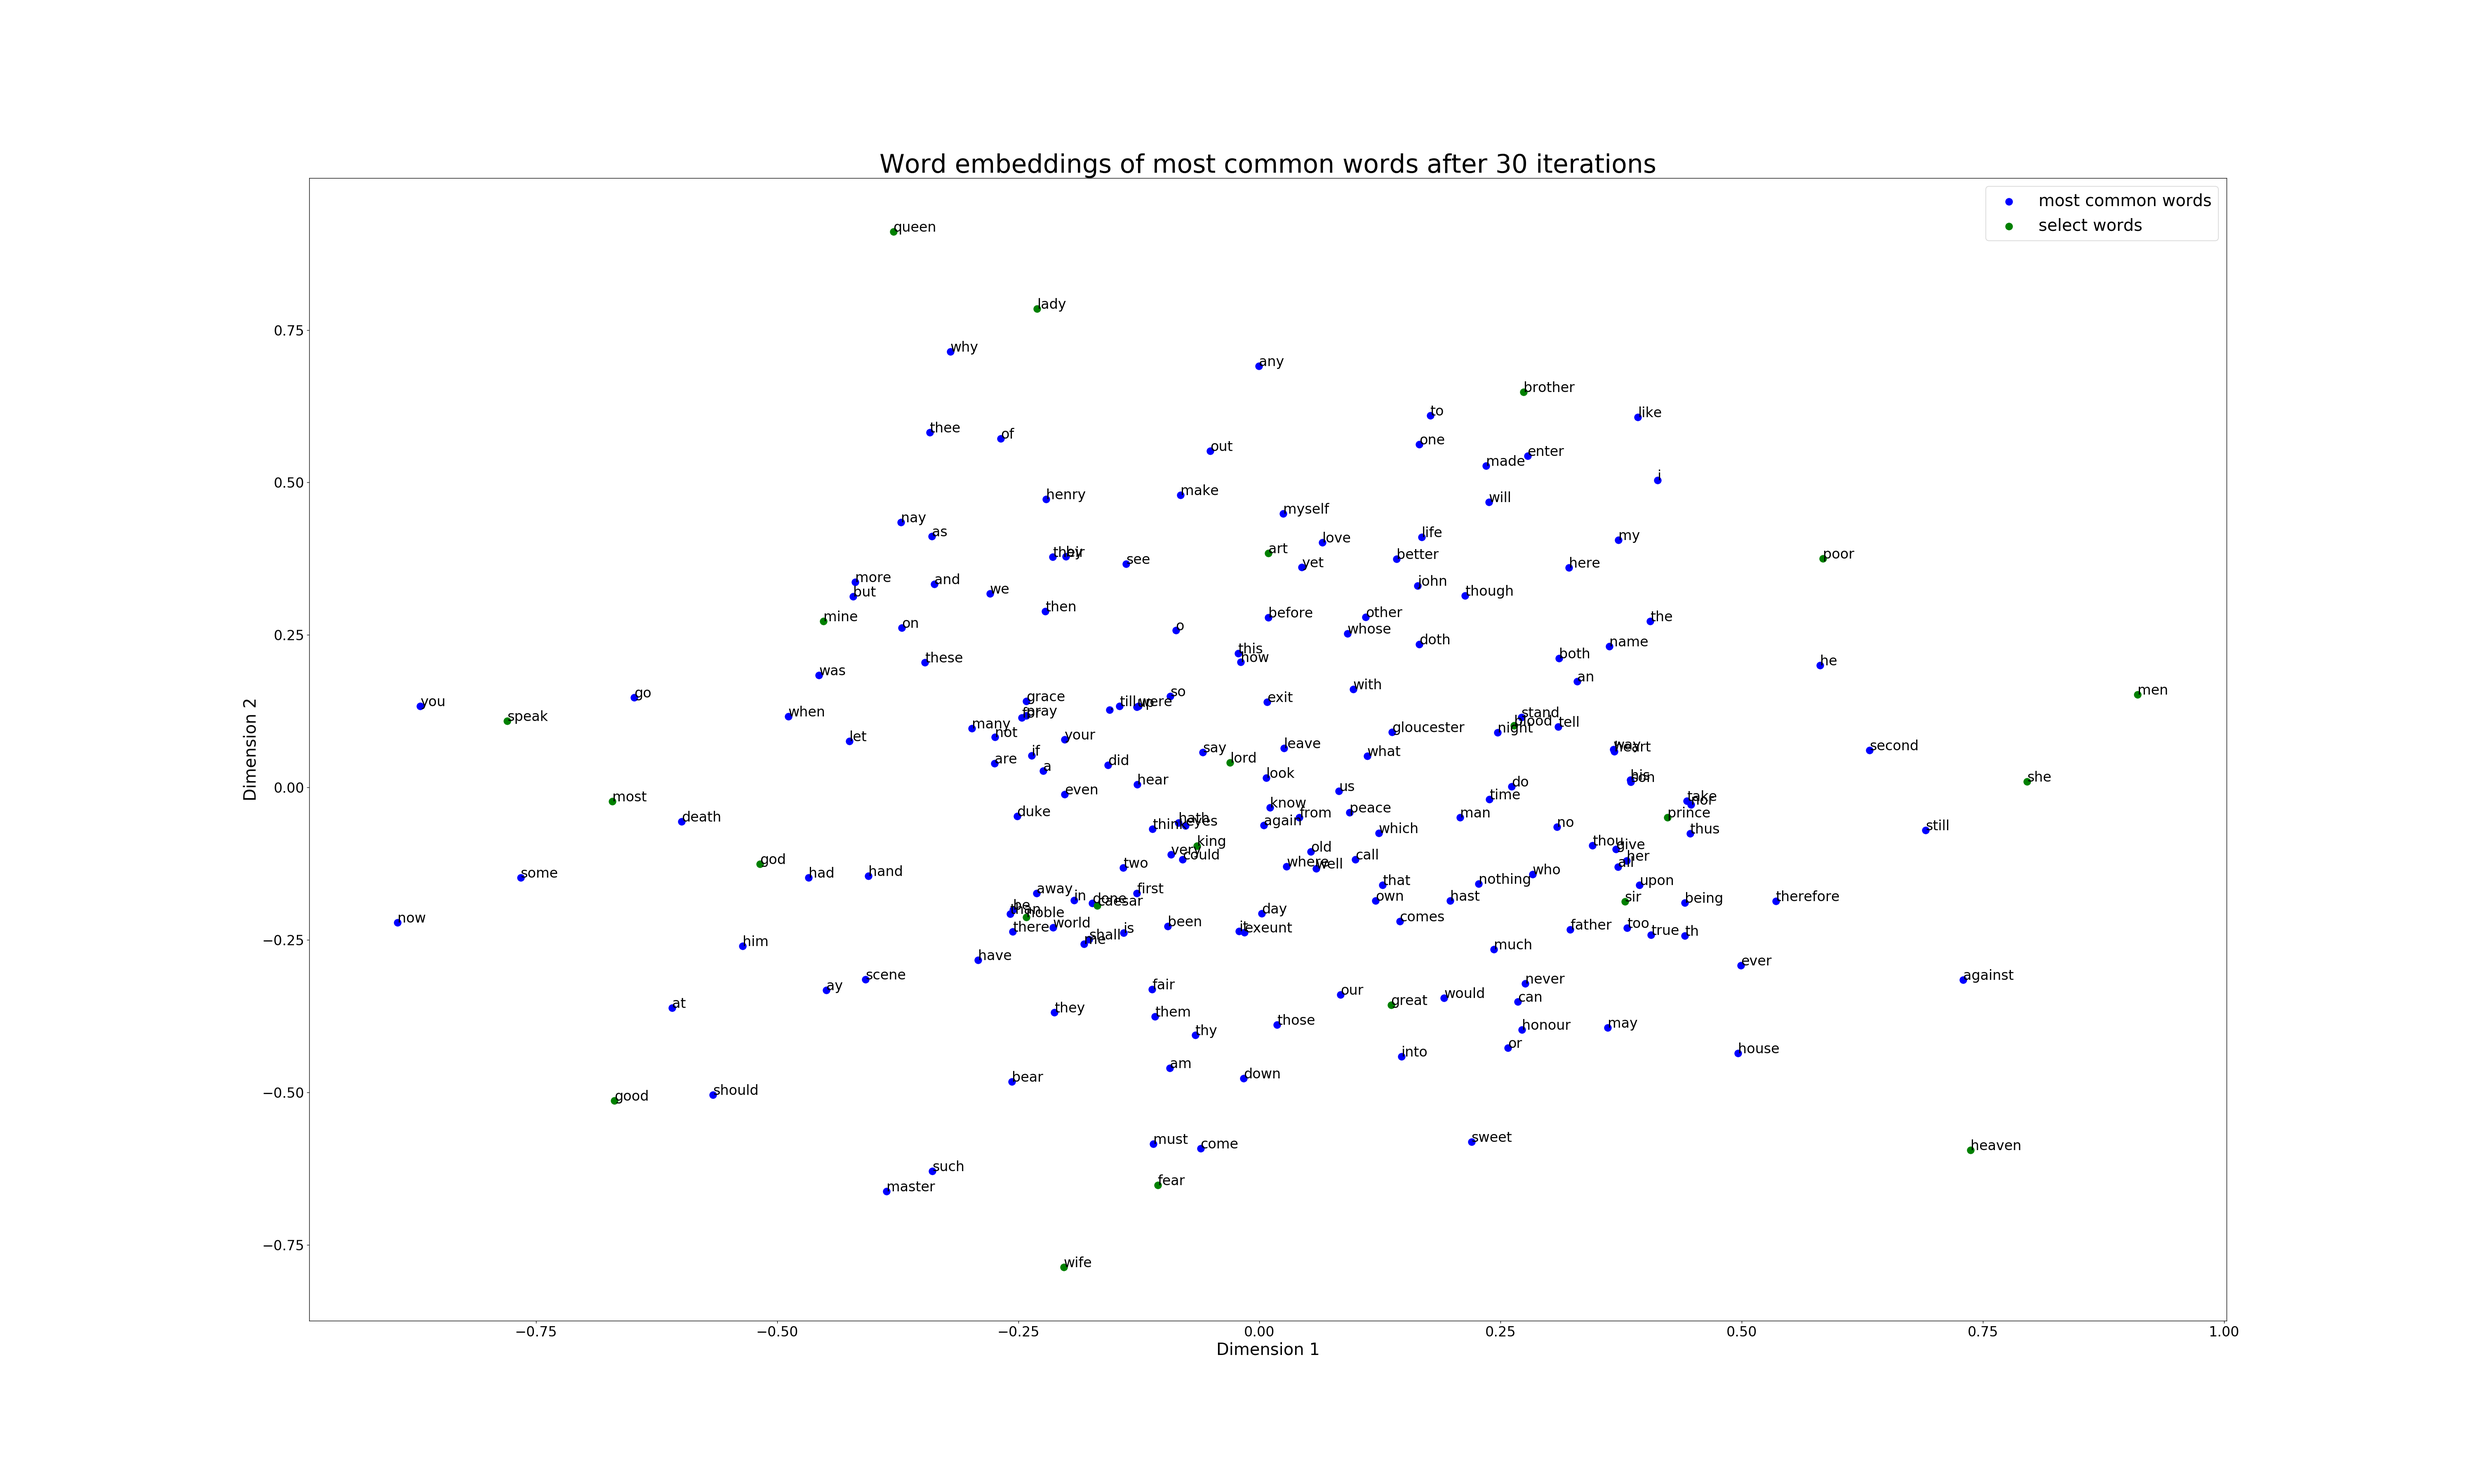
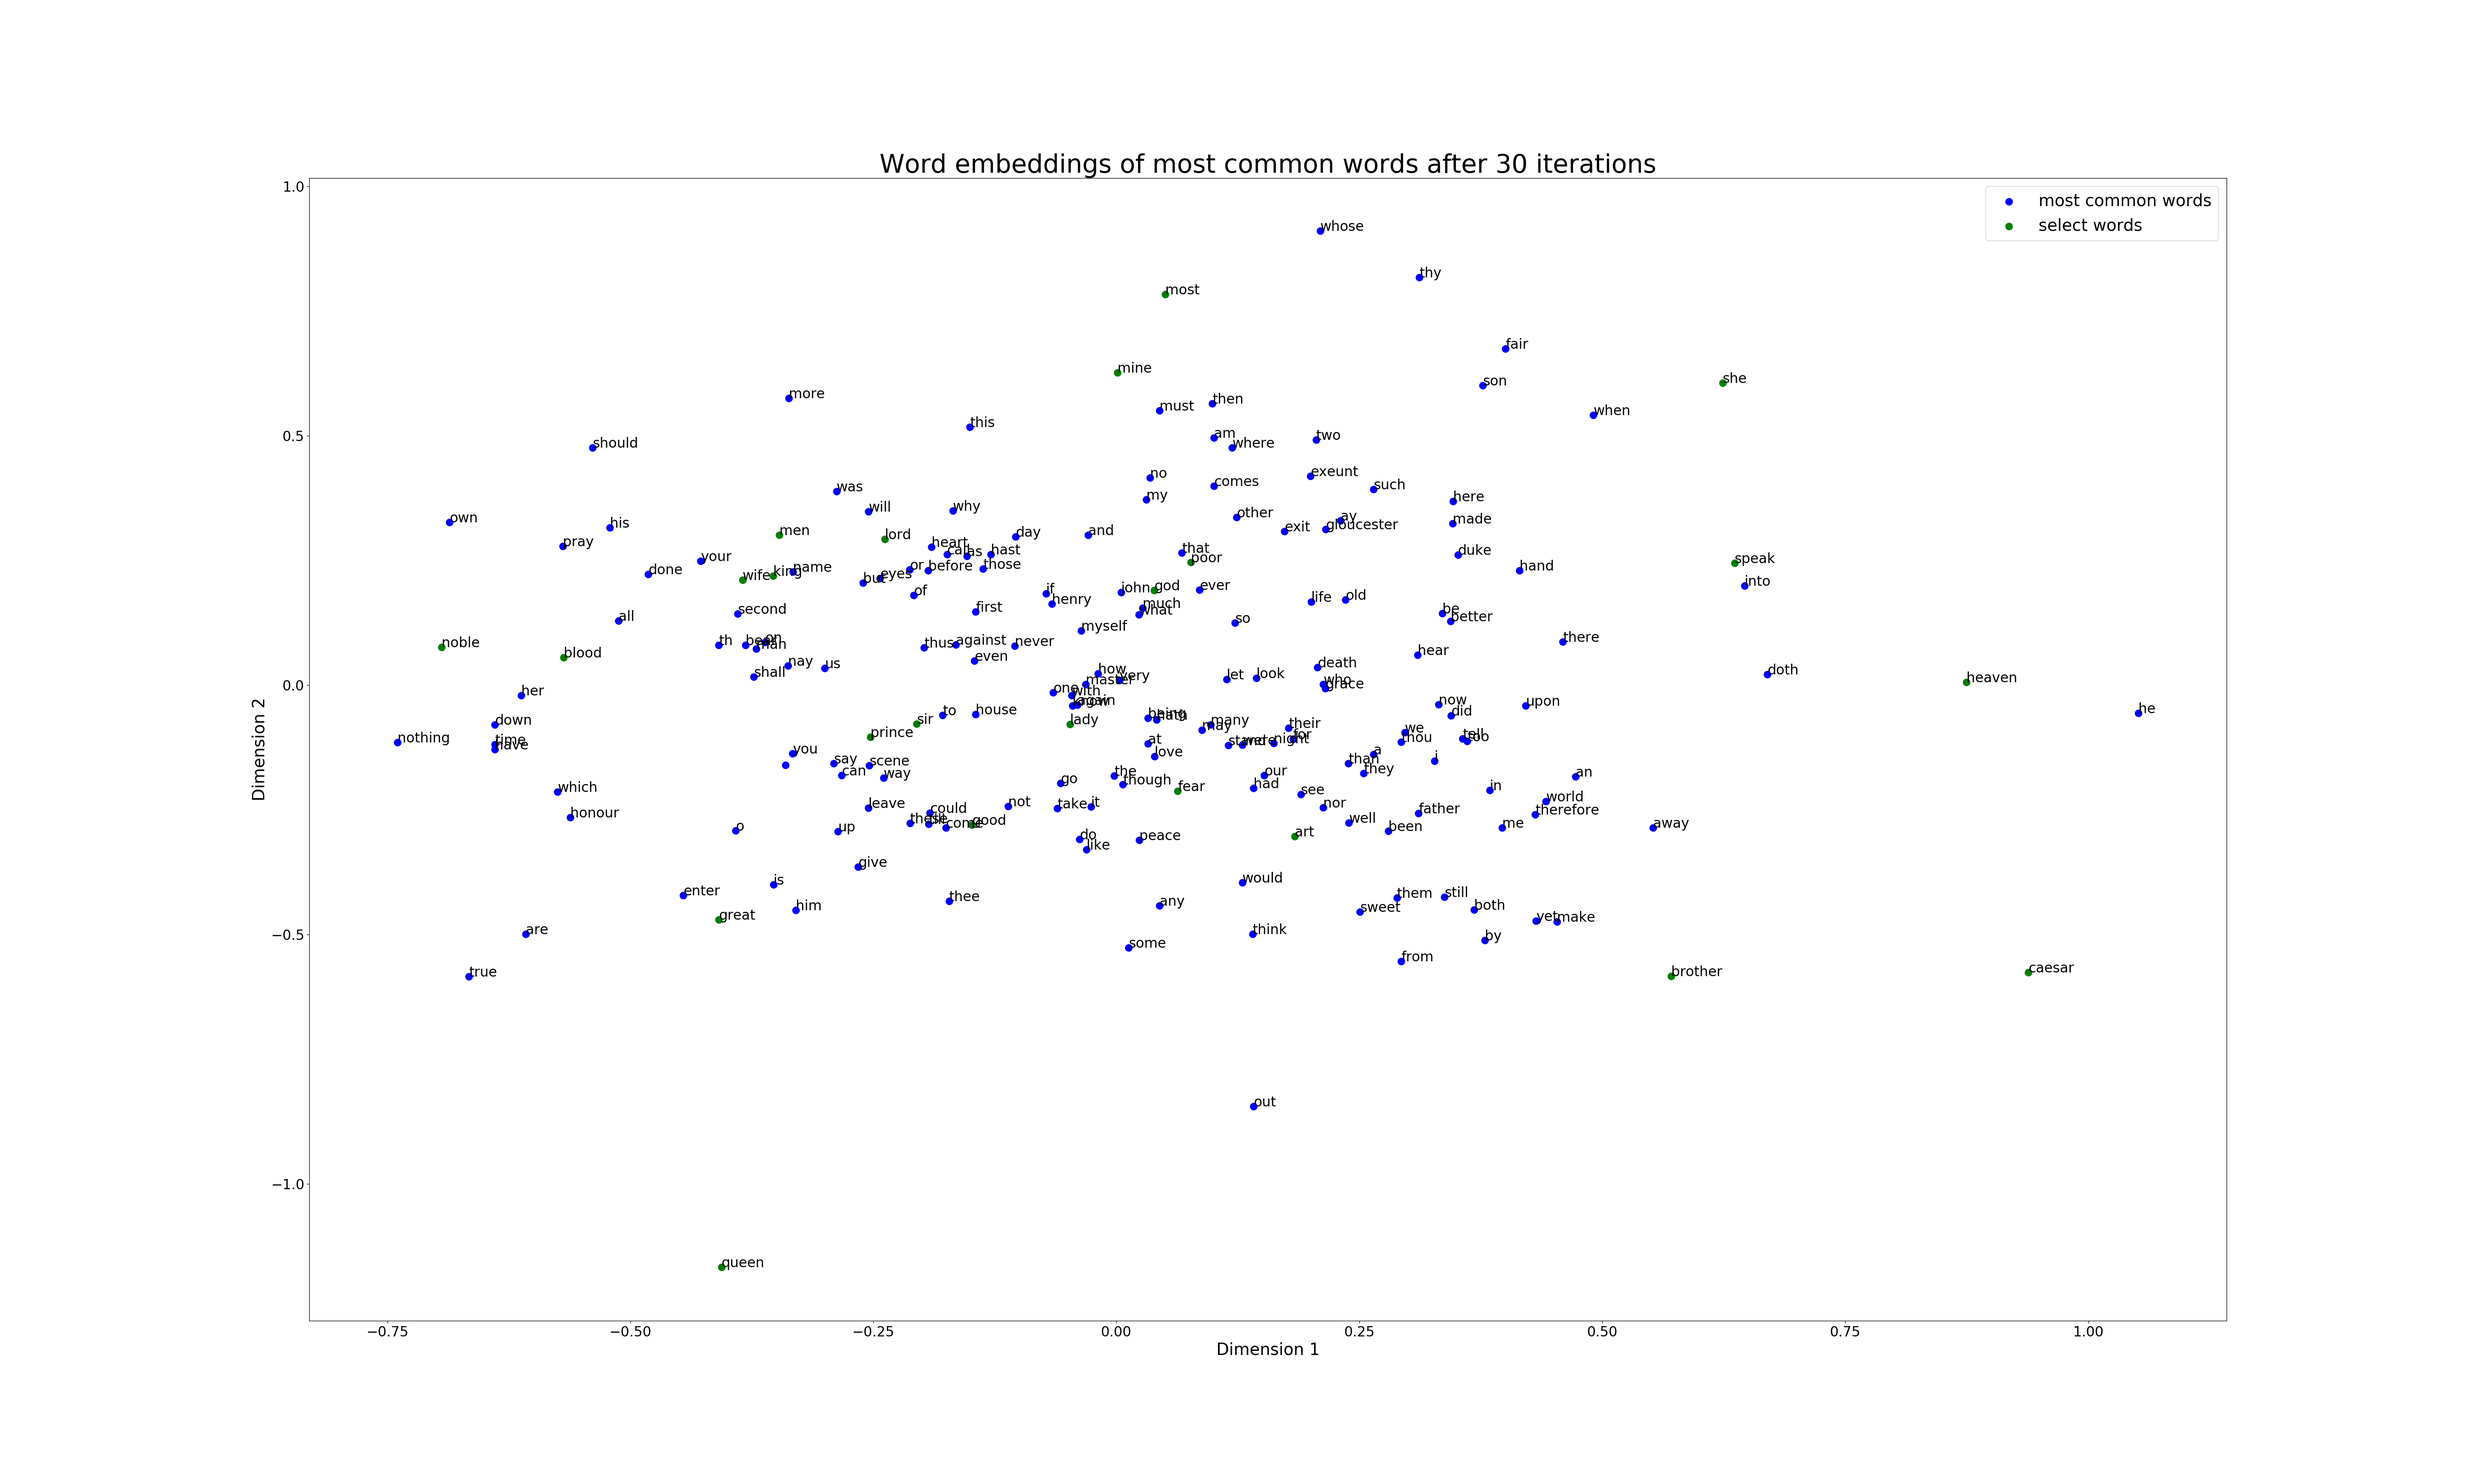
initialized 3D plot

diff --git a/PlotCode.py b/PlotCode.py
@@ -1,4 +1,6 @@
 import matplotlib.pyplot as plt
+import numpy as np
+from mpl_toolkits import mplot3d
 
 class Plot:
 
@@ -34,7 +36,26 @@ class Plot:
         plt.ylabel(r"Dimension 2", fontsize=24)
         plt.savefig("Images/2D/2D_word_embeddings_num_iters_"+str(iters)+".png")
 
-    """
+    
     def plot_3D(self):
-        ###
-    """
+        X, XS = self.data_points, self.select_data_points
+        color1, color2 = self.color1, self.color2
+        words, marker1, marker2 = self.words, self.marker1, self.marker2
+        iters, select_words = self.iters, self.select_words
+        plt.figure(figsize=(50, 30), dpi=120)
+        plt.xticks(fontsize=20)
+        plt.yticks(fontsize=20)
+        ax = plt.axes(projection="3d")
+        ax.scatter3D(X[:, 0], X[:, 1], X[:, 2], s=100, c=color1, marker=marker1)
+        ax.scatter3D(XS[:, 0], XS[:, 1], XS[:, 2], s=100, c=color2, marker=marker2)
+        for i, word in enumerate(words):
+            ax.text(X[i, 0], X[i, 1], X[i, 2], '%s' % (str(word)), fontsize=20)
+        for i, word in enumerate(select_words):
+            ax.text(XS[i, 0], XS[i, 1], XS[i, 2], '%s' % (str(word)), fontsize=20)
+        plt.legend(["most common words", "select words"], loc='upper right', fontsize=24)
+        plt.title(r"Word embeddings of most common words after " + str(iters) + r" iterations", fontsize=37)
+        ax.set_xlabel(r"Dimension 1", fontsize=24)
+        ax.set_ylabel(r"Dimension 2", fontsize=24)
+        ax.set_zlabel(r"Dimention 3", fontsize=24)
+        plt.savefig("Images/3D/3D_word_embeddings_num_iters_"+str(iters)+".png")
+

diff --git a/TrainModel.py b/TrainModel.py
@@ -54,6 +54,12 @@ def train_model(model, data, w2i, iterations, batch_size, selected_words,
             plot = PC.Plot(X_2D,XS_2D, most_common_words, selected_words, 
                             "blue", "green", "o", "o", num_iter)
             plot.plot_2D()
+
+            if (num_iter % 50 == 0):
+
+                plot3d = PC.Plot(X_3D, XS_3D, most_common_words, selected_words,
+                                "blue", "green", "o", "o", num_iter)
+                plot3d.plot_3D()
     
     model = Model
 
